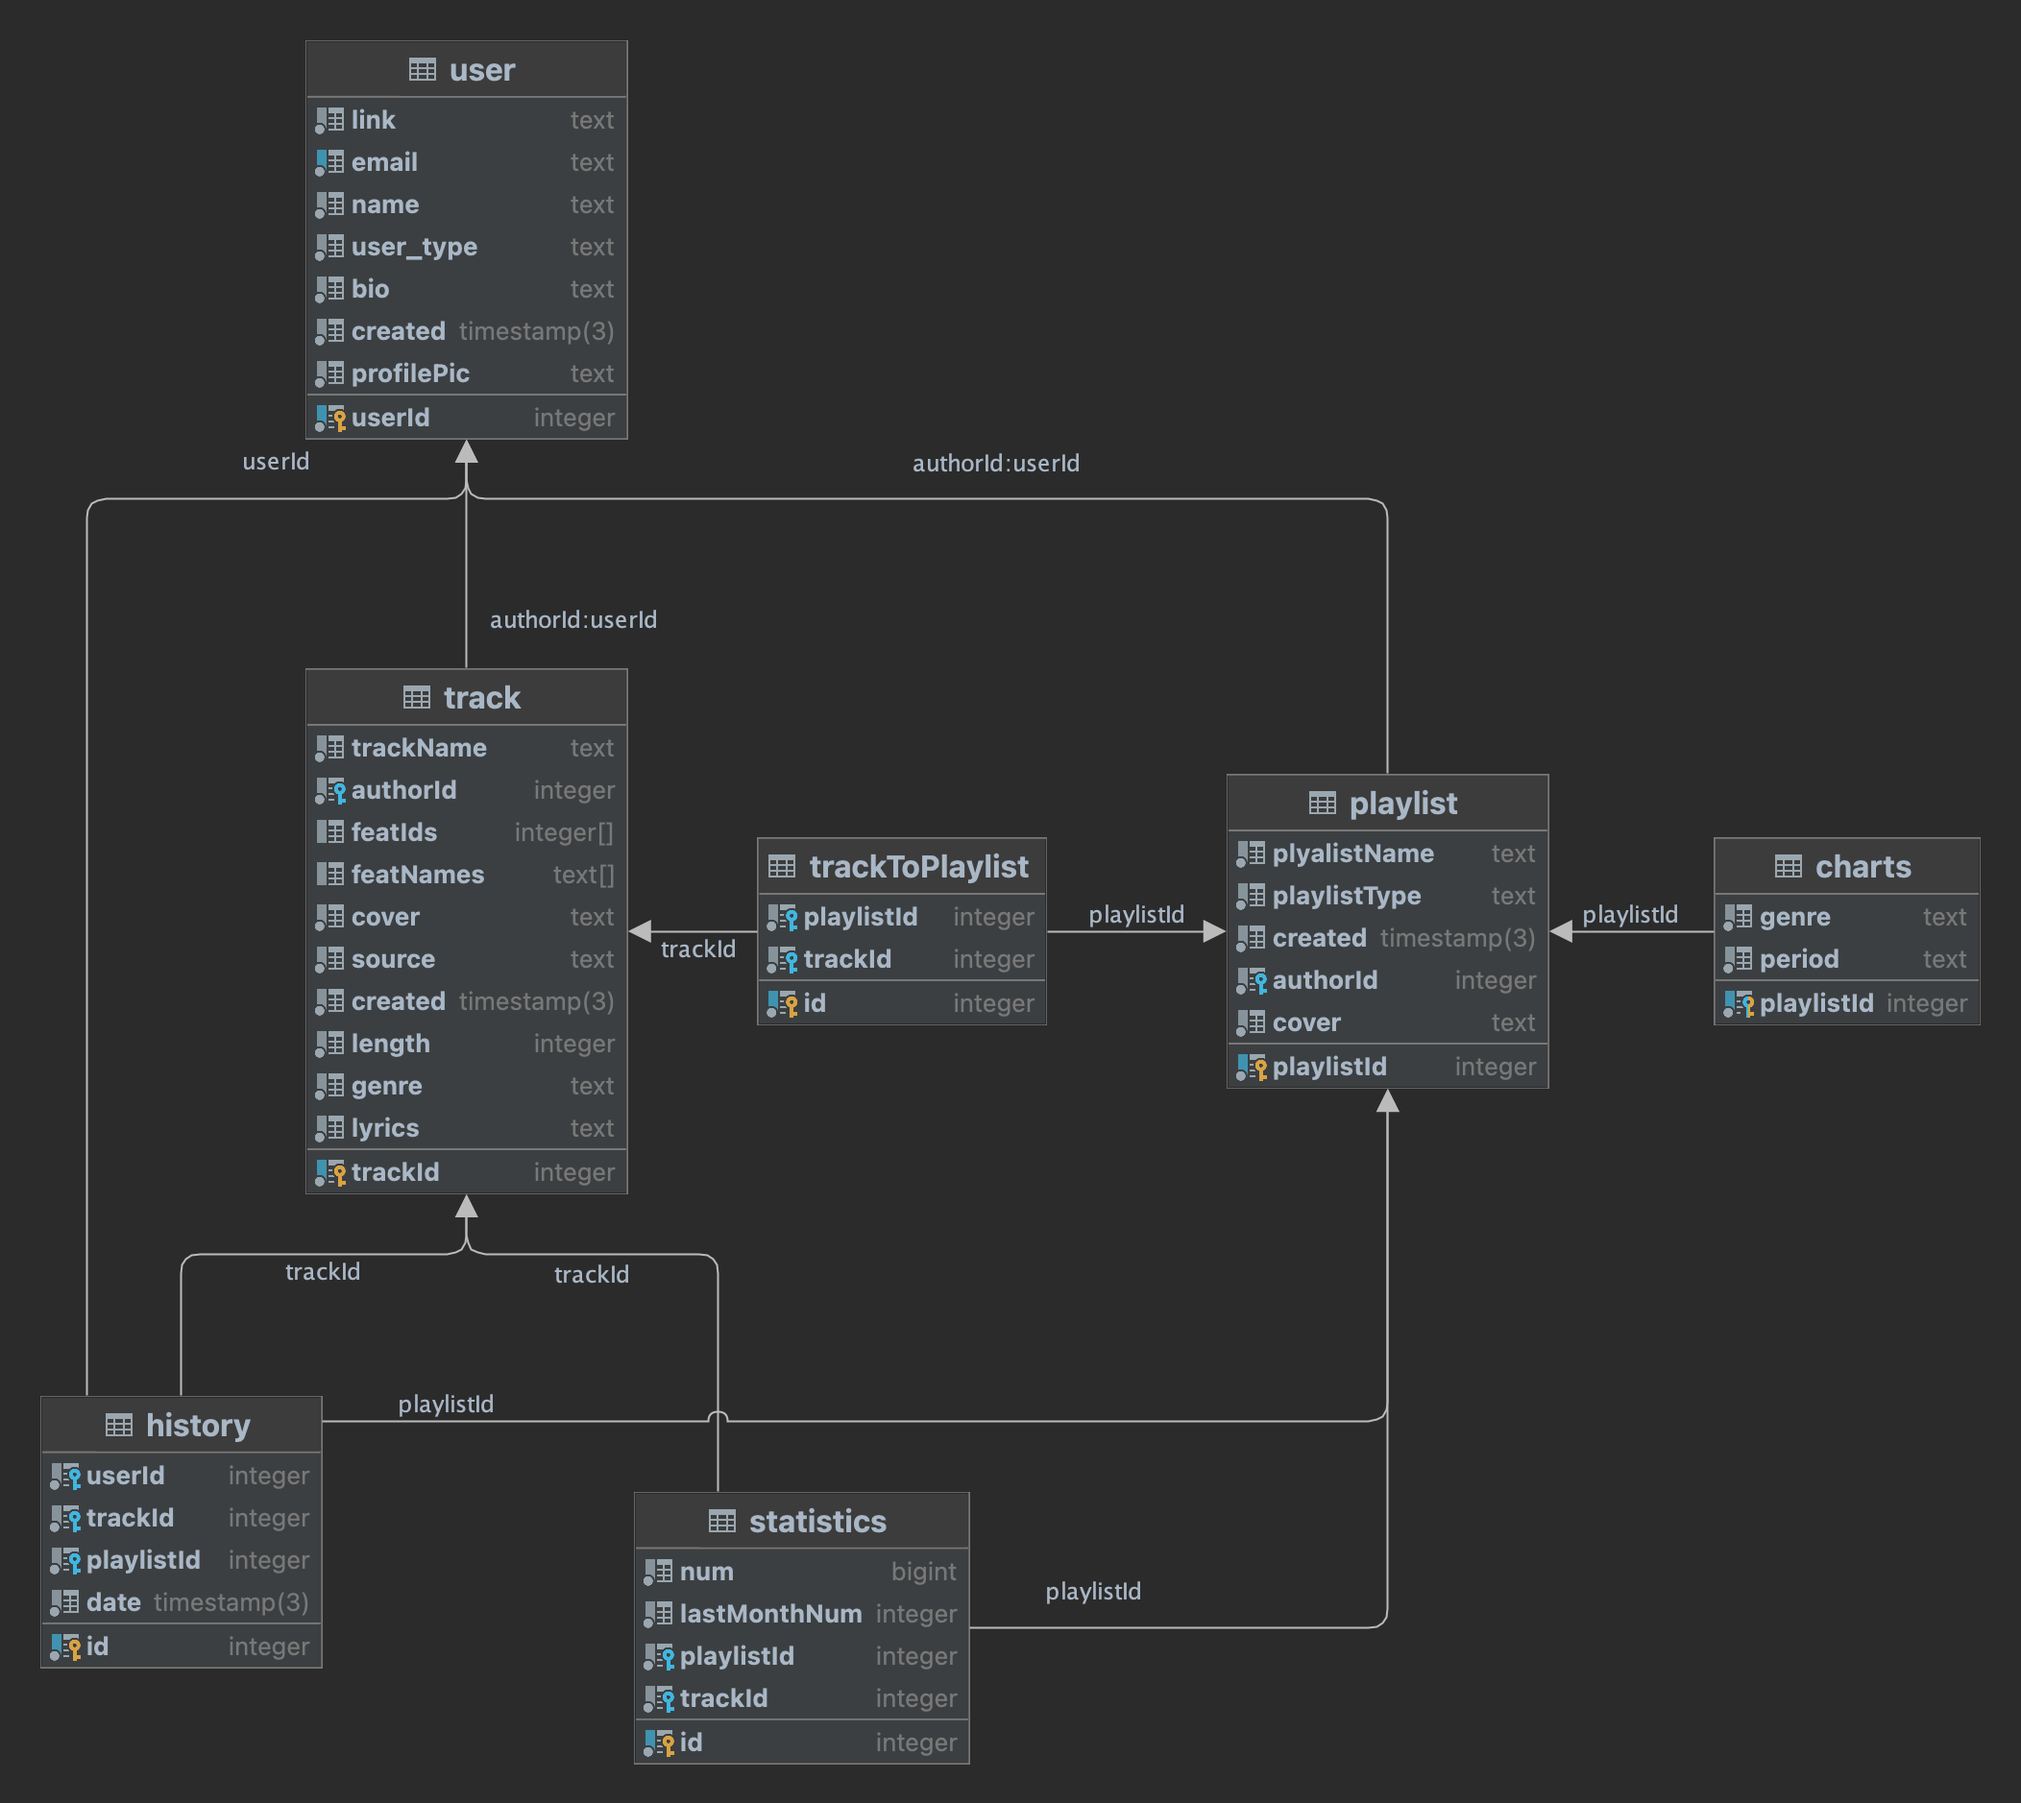
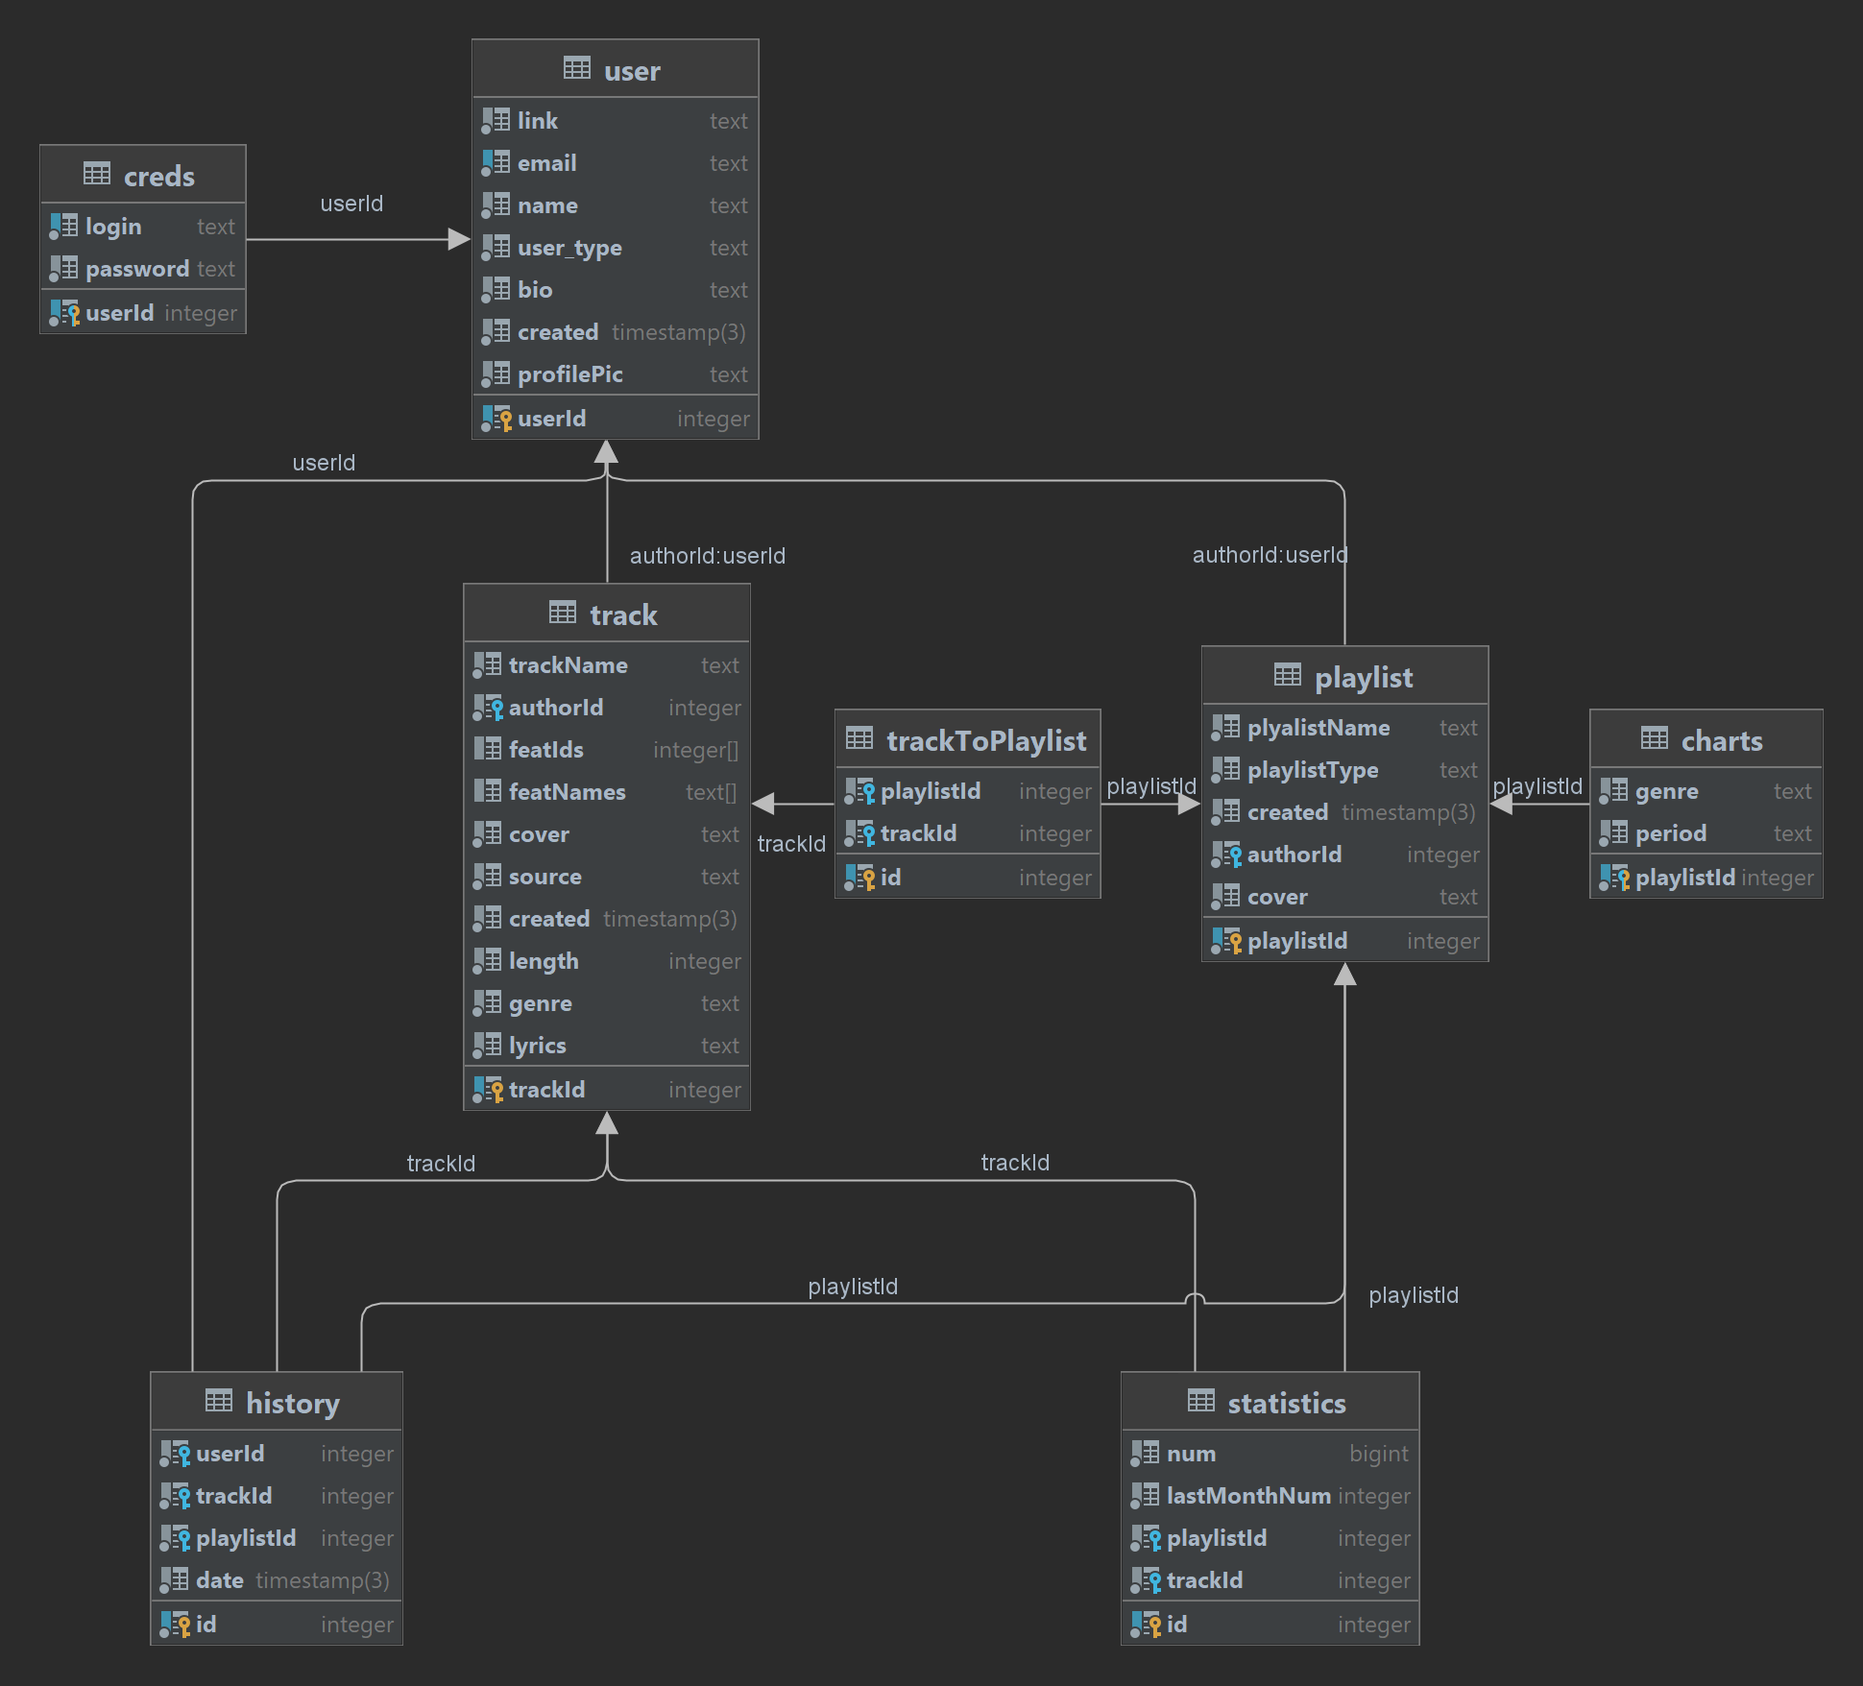
feat: add creds table

diff --git a/README.md b/README.md
@@ -12,3 +12,12 @@ Web project for 3rd course.
 # Database
 
 ![db](erd.png)
+
+- user - Сущность пользователя с уникальным полем email, типом (музыкант, обычный пользователь)
+- creds - Сущность для хранения паролей
+- track - Сущность, описывающая сами произведения, хранит их названия, ссылку на автора, ссылки на обложку, трек, текст
+- playlist - Сущность, описывающая плейлисты, их названия, тип (альбом, сингл, пользовательский плейлист), ссылку на автора
+- trackToPlaylist - Соединяет треки в плейлисты
+- charts - Хранит и периодически обновляет ссылки на плейлисты, созданные из самых популярных треков за определенный период и с определенным жанром
+- history - Хранит всю историю прослушиваний
+- statistics - Хранит для комбинации трека и плейлиста информацию о кол-ве прослушиваний
